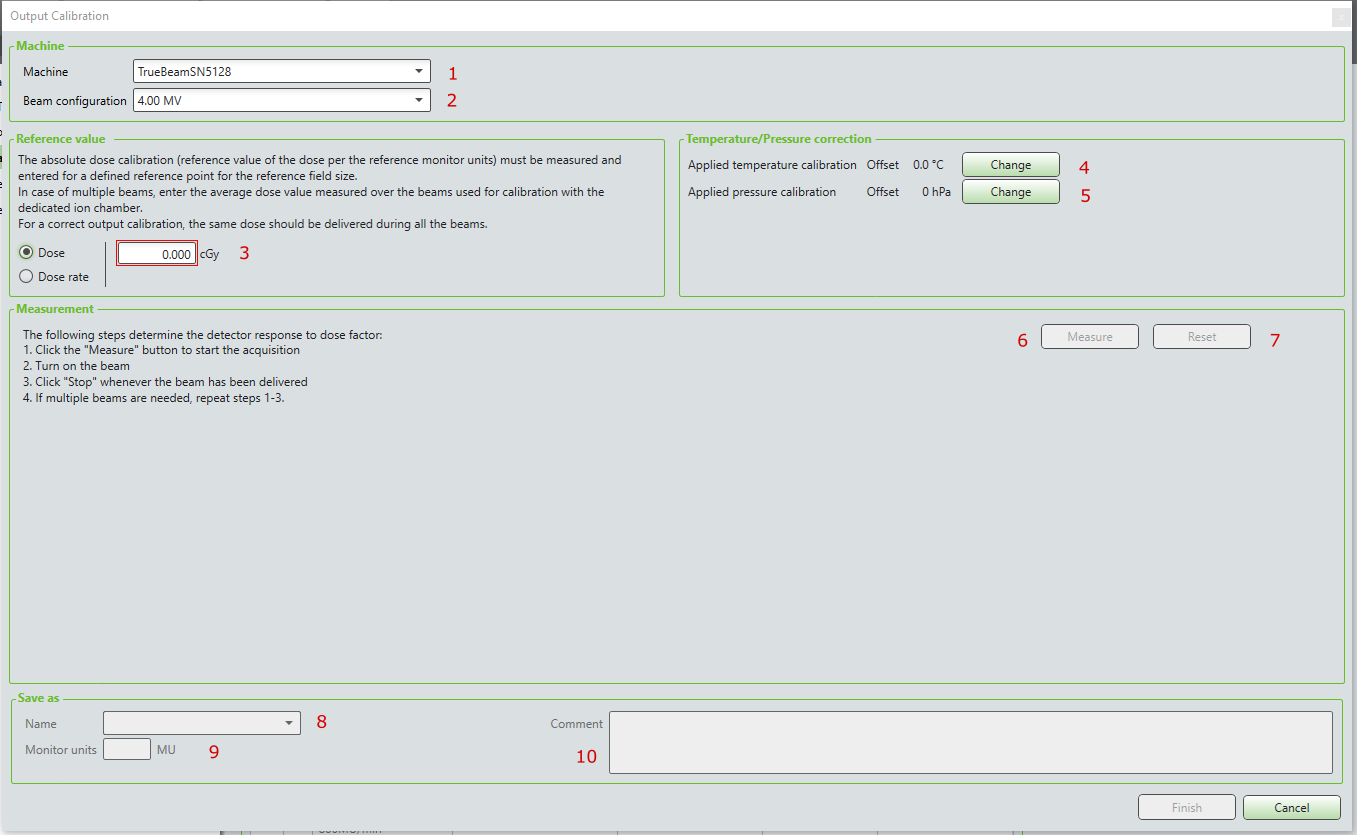
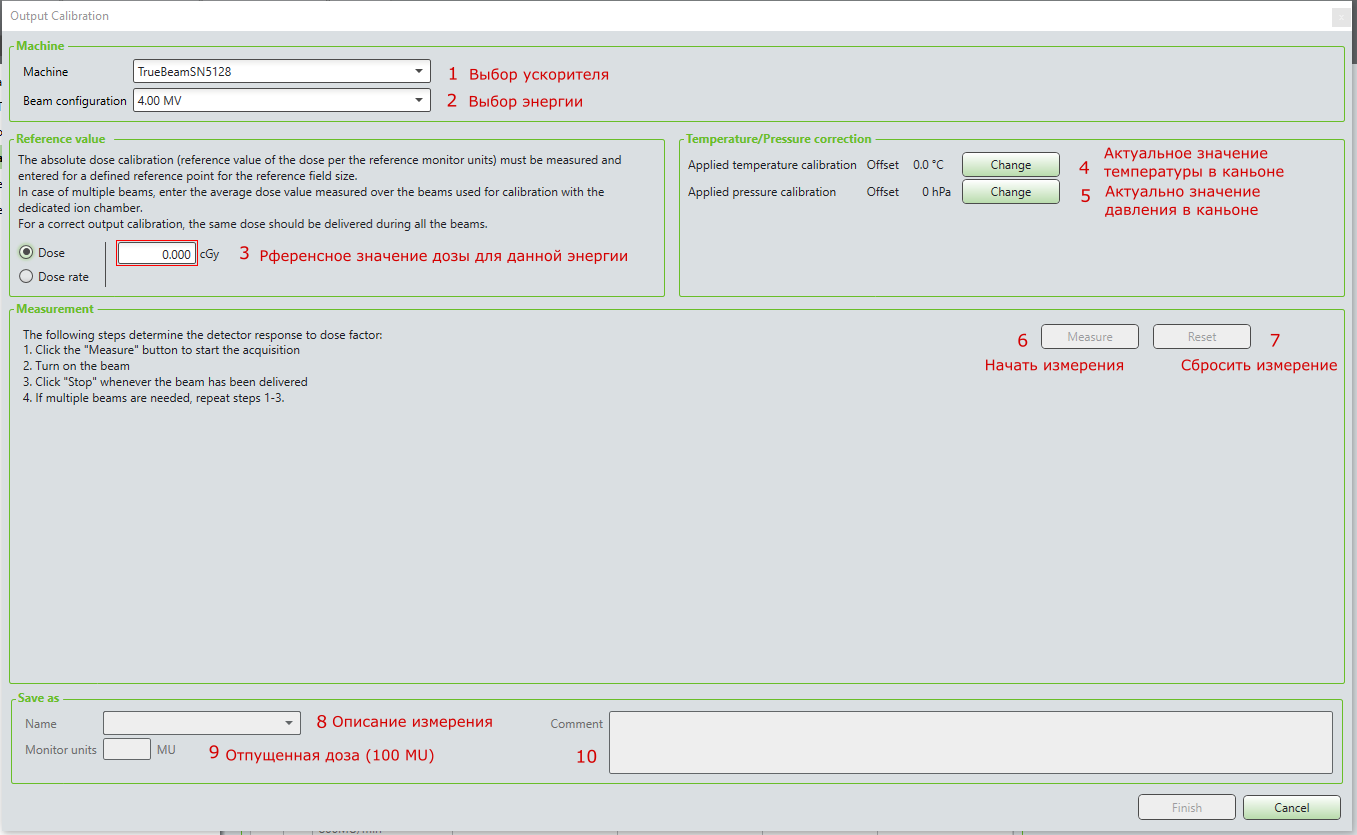
Поправки по верификации

diff --git a/source/commissioning/dosimetry_equipment.rst b/source/commissioning/dosimetry_equipment.rst
@@ -20,9 +20,8 @@ IBA myQA
 Матрица необходима для того, чтобы проверить рассчитанный в ПО Eclipse дозовый план пациента.
 
 Для этого на откалиброванной матрице проводятся измерения дозы на специальном фантоме при аналогичных условиях с целью
-получить максимальное отклонение от плана не более 2%??.
+получить максимальное отклонение от плана не более 2%.
 
-*Калибровка матрицы:*
 
 .. sidebar:: Калибровочный коэффициент
 
@@ -37,7 +36,8 @@ IBA myQA
 Значения дозы полученные при прохождении пучка (размер поля 10x10см) через водный фантом (SDD = 100 см, SSD = 90 см) являются
 референсными при проведении калибровки на матрице. 
 
-*Установка матрицы для калибровки*
+Установка матрицы для калибровки
+~~~~~~~~~~~~~~~~~~~~~~~~~~~~~~~~
 
 
 1. Конфигурируем стол и матрицу таким образом, чтобы перекрестие лазеров совпало с перекрестием, отмеченным на матрице (см. :numref:`рис. %s <_matrixx1>`).
@@ -51,7 +51,7 @@ IBA myQA
 
     Первичная установка матрицы
 
-Также следует включить поле и проверить совпадение его размеров с отмеченным на матрице диапазоном 10 x 10 см (см. :numref:`рис. %s <_matrixx2>`).
+2. Также следует включить поле и проверить совпадение его размеров с отмеченным на матрице диапазоном 10 x 10 см (см. :numref:`рис. %s <_matrixx2>`).
 
 .. figure:: images/MatriXX2.png
     :name: _matrixx2
@@ -61,7 +61,7 @@ IBA myQA
 
     Проверка размеров поля.
 
-Для воссоздания референсных условий на матрицу нужно осторожно поместить 9.4 см твердой воды(см. :numref:`рис. %s <_matrixx3>`). Значение 9.4 выбрано из
+3. Для воссоздания референсных условий на матрицу нужно осторожно поместить 9.4 см твердой воды(см. :numref:`рис. %s <_matrixx3>`). Значение 9.4 выбрано из
 следующих соображений:
 
 .. figure:: images/matrixx_CT.png
@@ -87,7 +87,7 @@ IBA myQA
 
     Установление твердой воды на матрицу
 
-Далее нужно привести стол на нужную высоту, для этого нужно ориентрироваться по рискам, которые находятся по бокам. В данном случае 
+4. Далее нужно привести стол на нужную высоту, для этого нужно ориентрироваться по рискам, которые находятся по бокам. В данном случае 
 нужно подянть стол так, чтобы горизонтальный лазер нахдился ниже боковой риски на 3-4 мм.(см. :numref:`рис. %s <_matrixx4>`). Таким образом по высоте попадаем
 в центр ионизационных камер. Также для проверки нужно посмотреть совпадение по вертикальной риске, находящийся тоже на боковой поверхности матрицы.
 
@@ -99,7 +99,7 @@ IBA myQA
 
     Установление твердой воды на матрицу
 
-В конечном итоге матрица c твердой водой должны выглядить как на рисунке (см. :numref:`рис. %s <_matrixx5>`).
+5. В конечном итоге матрица c твердой водой должны выглядить как на рисунке (см. :numref:`рис. %s <_matrixx5>`).
 
 .. figure:: images/MatriXX5.png
     :name: _matrixx5
@@ -109,7 +109,8 @@ IBA myQA
 
     Конечный вид матрицы
 
-*Работа с ПО матрицы*
+Работа с ПО матрицы
+~~~~~~~~~~~~~~~~~~~
 
 Для начала калибровки после правильного размещения матрицы и пластин из твердой воды необходимо подключить питание к матрице при
 помощи специального провода идущего в комплекте и включить ее кнопкой на задней панели. Далее при помощи кабеля Ethernet необходимо
@@ -157,16 +158,7 @@ IBA myQA
 
     Калибровка матрицы
 
-В поле *1* выбираем ускоритель, на котором мы проводим калибровку
-В поле *2* выбираем необходимую энергию.
-В поле *3* вводим рефернсное значение дозы для данной энергии.
-В полях *4* и *5* вводим актульные значения температуры и давления в бункере ускорителя.
-Затем нажимаем на кнопку Measure (кнопка *6*) и пускаем пучок с ускорителя. Если измерение проведено неправильно, 
-то можно сбросить его с помощью кнопки Reset (кнопка *7*).
-После измерения в поле *8* описываем измерение в следующей форме: "Accelerator Energy".
-При калибровке полей без сглаживающего фильтра (FFF) также необходимо указать мощность дозы в МЕ.
-В поле *9* указываем отпущенную дозу (100 МЕ). Если необходимо в поле 10 можно оставить комментарии
-к проведенному измерению.
+Заполнить пункты 1-5, потом сделать измерение и заполнить все остальное (см. :numref:`рис. %s <_myqa4>`).
 
 
 BeamChecker

diff --git a/source/Apendixes/instructions.rst b/source/Apendixes/instructions.rst
@@ -110,9 +110,9 @@ MRI
 При проведении верификации планов облуения необходим следить за следующим:
 
 #. Пациента (проект) можно создвавть вручную, а можно при импорте плана из DICOM файлов.
-#. В процессе импорта необходимо выбирать плоскость XY и нулевые смещения изоцентра (???).
+#. В процессе импорта необходимо выбирать плоскость XY и нулевые смещения изоцентра.
 #. Необходимо убдиться, что аппарат и калибровка выбраны именно для используемого
-   излучения (кторое известно системе из RTPLAN).
+   излучения (которое известно системе из RTPLAN).
 #. Импортированный план должен был быть экспортирован в единицах дозы за фракцию, 
    а не суммарных дозах. Если это не было сделано правильно, 
    то в дозовом распределении нужно применить умножающий фактор **1 / количестов фракций**.
